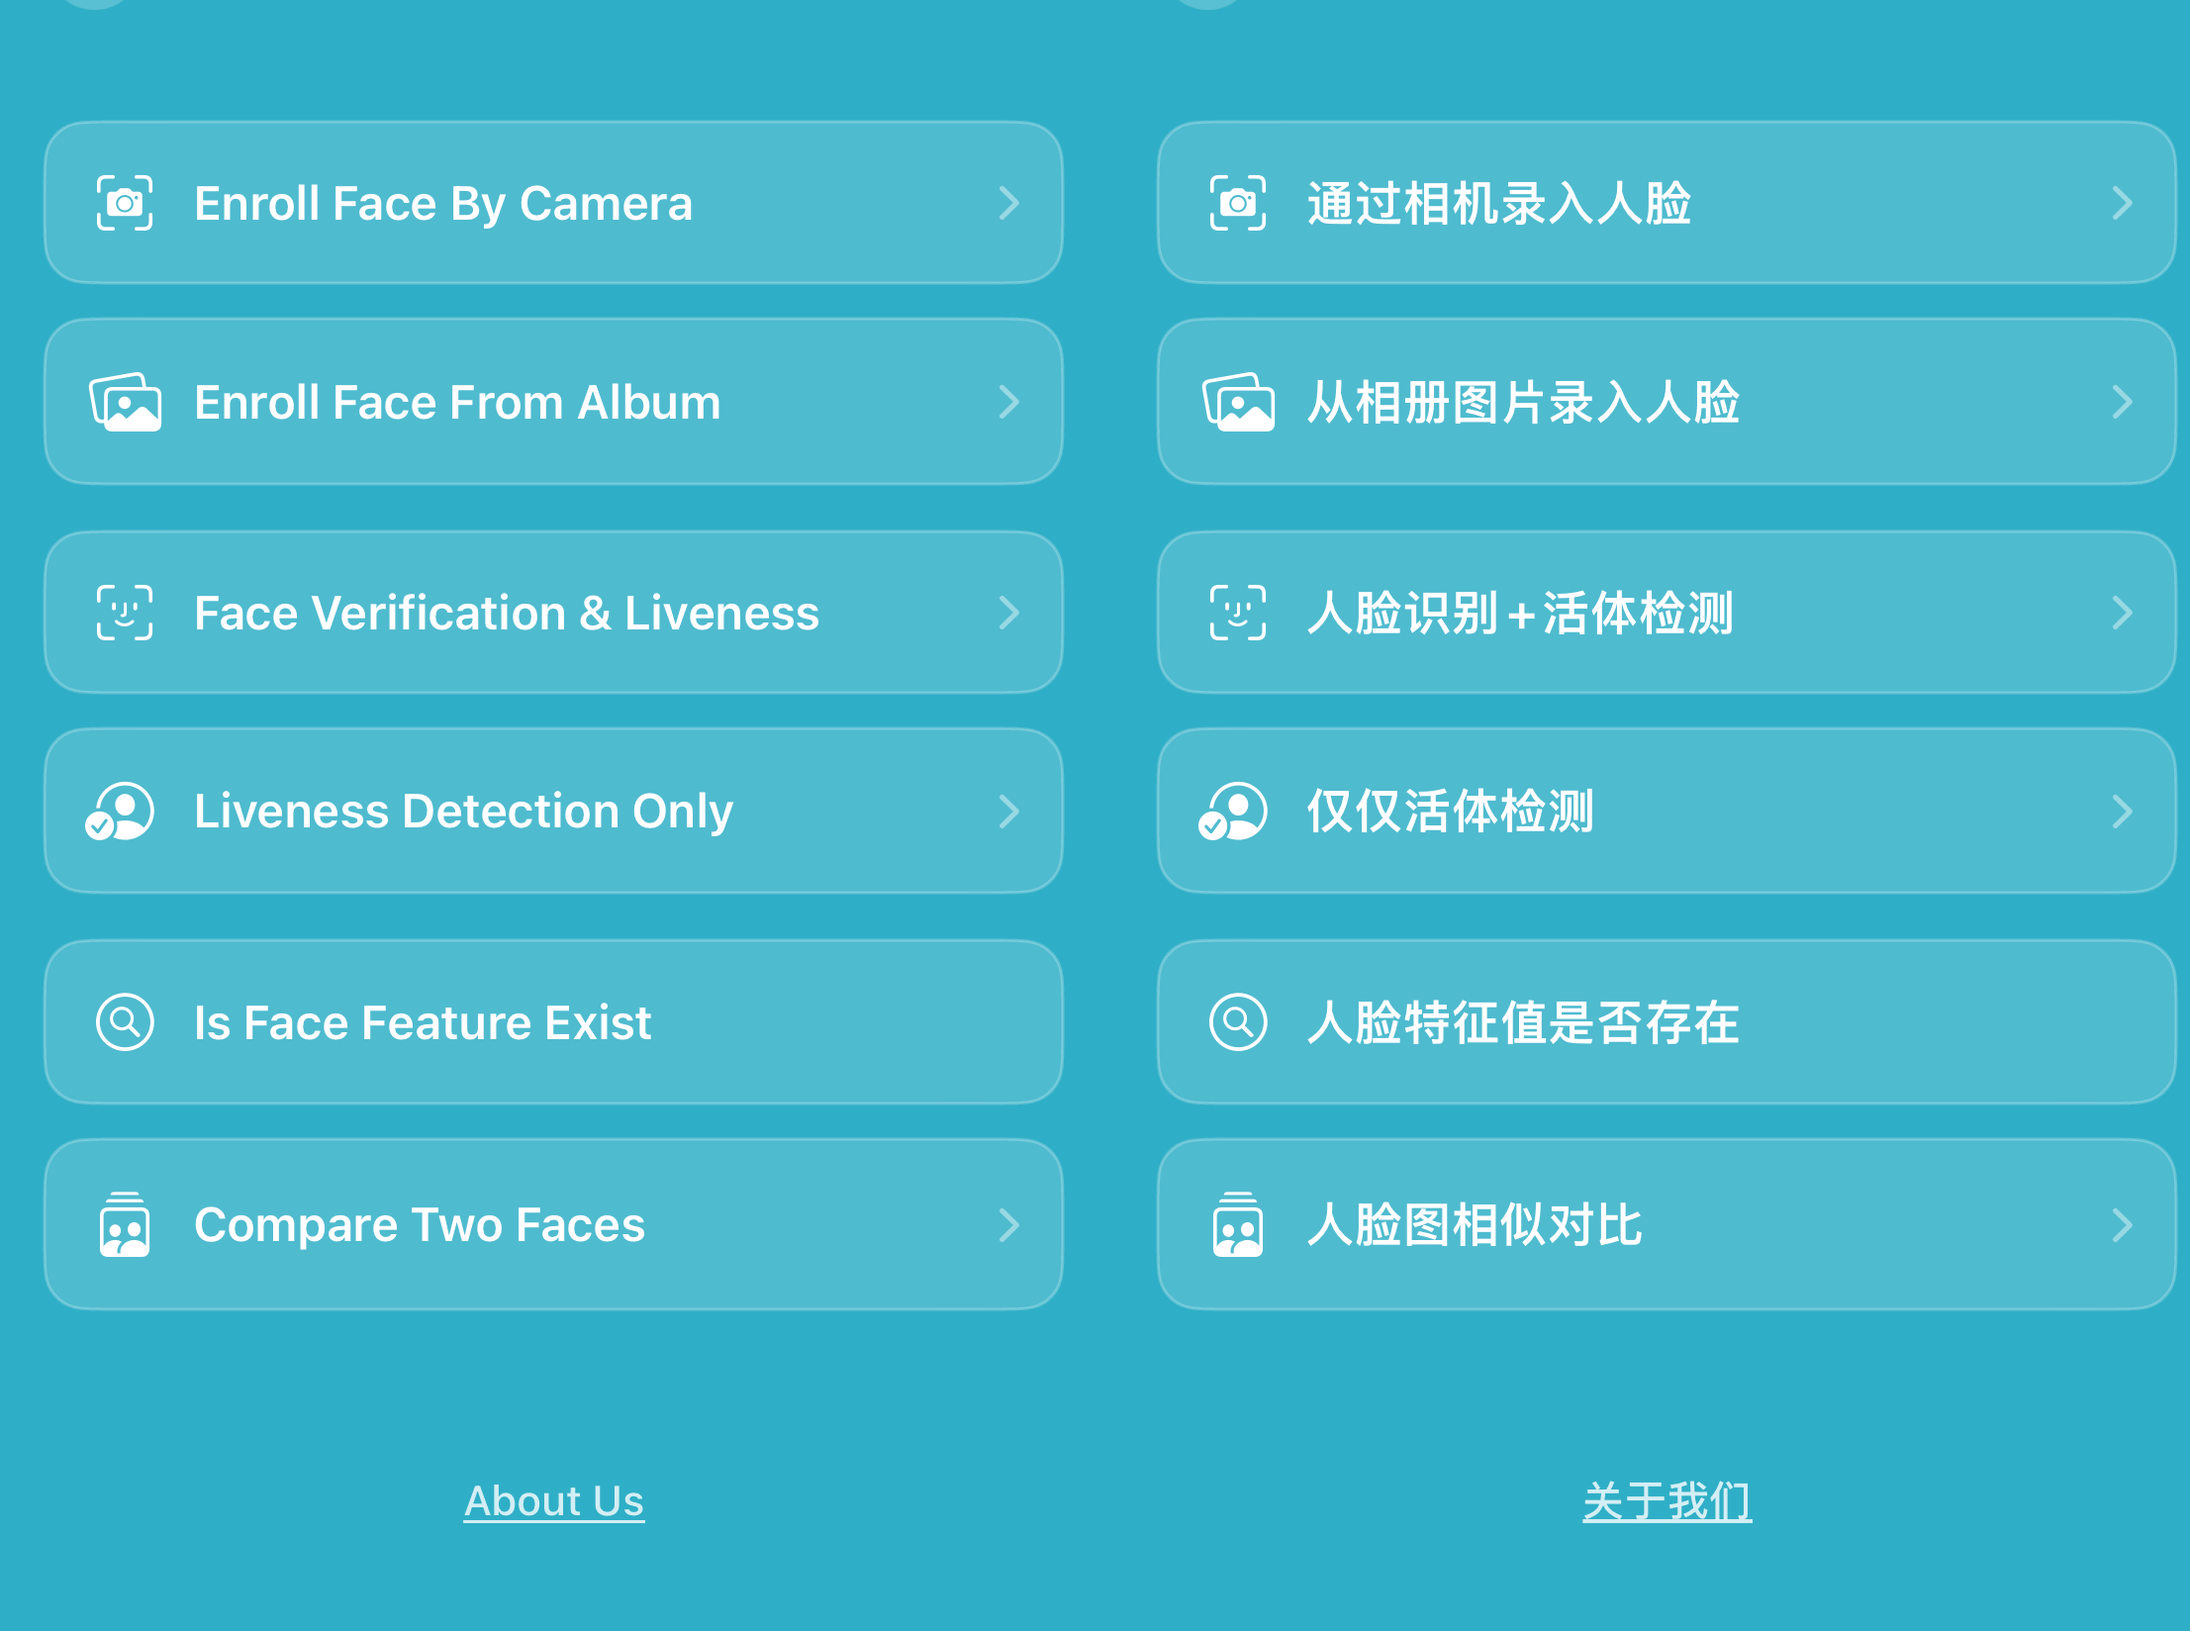
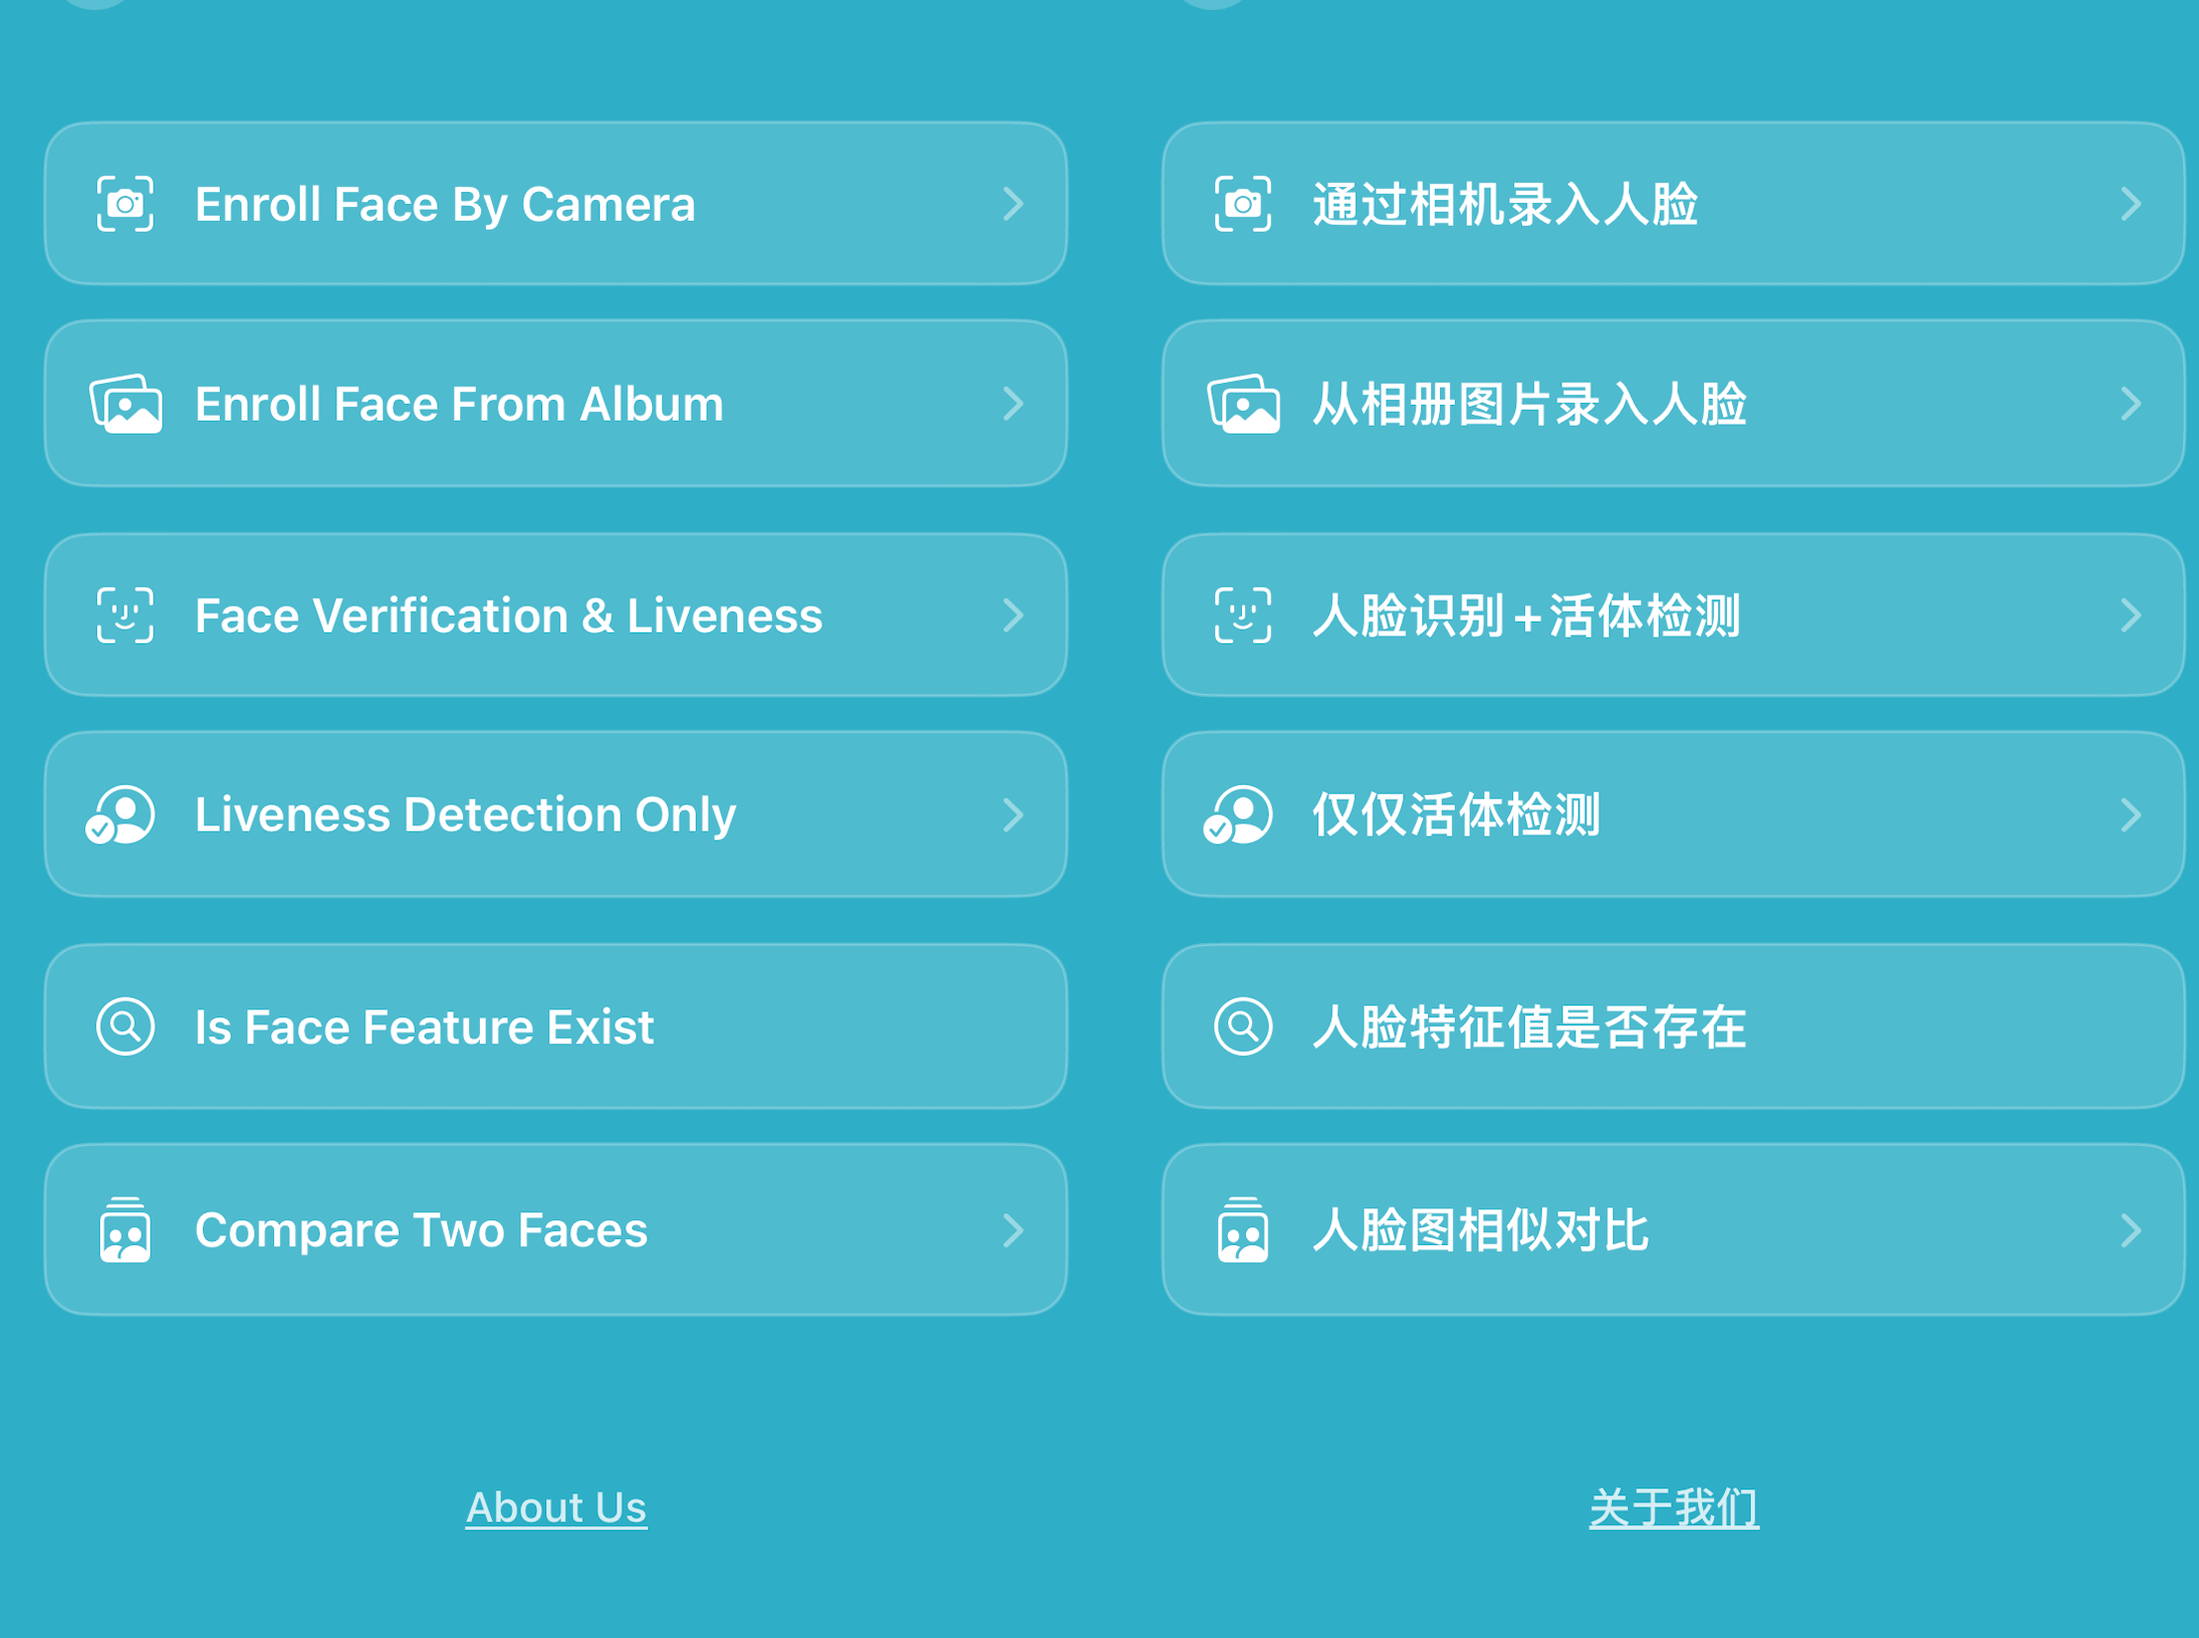
Refine demo result styling and update assets
Reduce result heading, icon, and text sizes and add widget coverage. Refresh the demo image and include local formatting updates.

diff --git a/example/lib/main.dart b/example/lib/main.dart
@@ -345,10 +345,11 @@ class _MyHomePageState extends State<MyHomePage> {
                   Row(
                     children: [
                       const Icon(Icons.terminal_rounded,
-                          color: _green, size: 18),
+                          color: _green, size: 16),
                       const SizedBox(width: 8),
                       Text(t('result'),
                           style: const TextStyle(
+                              fontSize: 13,
                               fontWeight: FontWeight.w600,
                               color: Color(0xFF18352C))),
                       if (_isBusy) ...[
@@ -375,7 +376,7 @@ class _MyHomePageState extends State<MyHomePage> {
                                   : null,
                               style: const TextStyle(
                                   color: Color(0xFF39574B),
-                                  fontSize: 13,
+                                  fontSize: 12,
                                   height: 1.4,
                                   fontFamily: 'monospace'),
                             ),

diff --git a/example/test/demo_flow_test.dart b/example/test/demo_flow_test.dart
@@ -26,6 +26,20 @@ void main() {
     await tester.pumpAndSettle();
   }
 
+  testWidgets('result panel uses compact text and icon sizes', (tester) async {
+    await tester.pumpWidget(const MyApp());
+
+    expect(tester.widget<Icon>(find.byIcon(Icons.terminal_rounded)).size, 16);
+    expect(tester.widget<Text>(find.text('Latest Result')).style?.fontSize, 13);
+    expect(
+        tester
+            .widget<SelectableText>(find.byType(SelectableText))
+            .style
+            ?.fontSize,
+        12);
+    expect(tester.takeException(), isNull);
+  });
+
   testWidgets('sync uses a feature returned by the SDK', (tester) async {
     tester.view.physicalSize = const Size(375, 812);
     tester.view.devicePixelRatio = 1;
